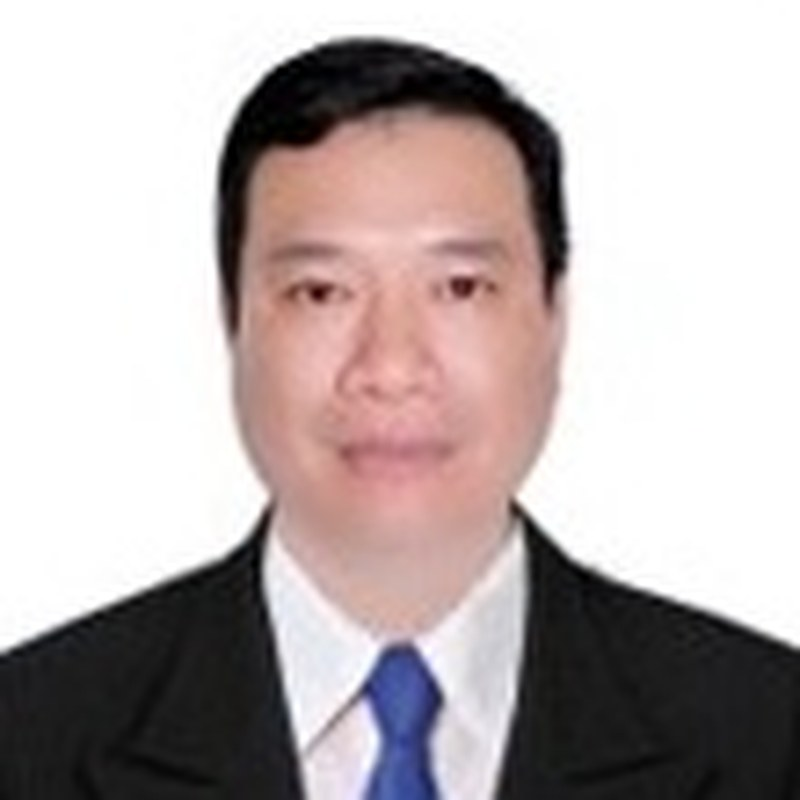
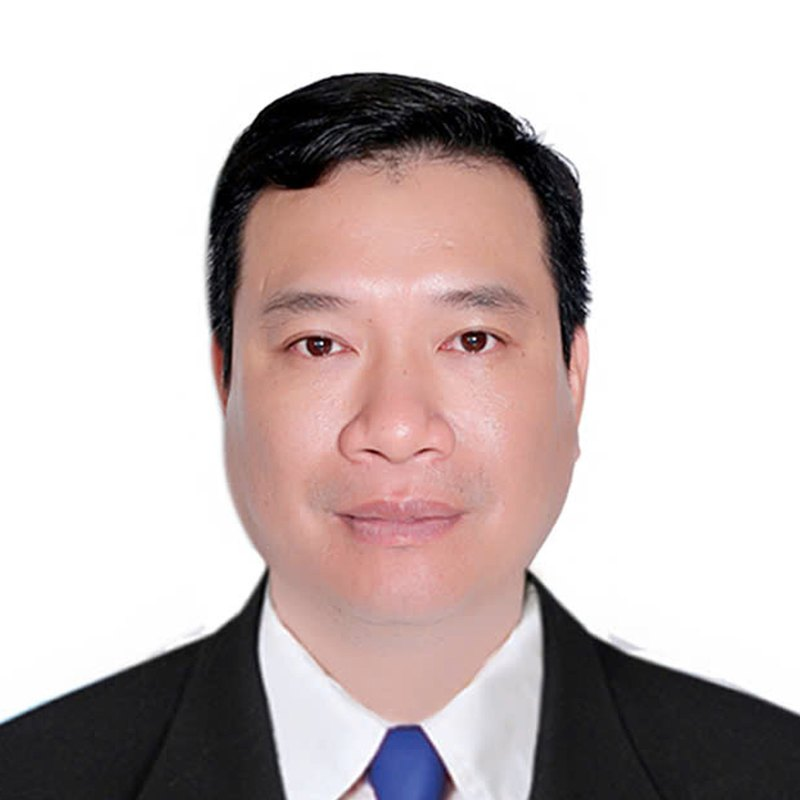
Update speakers và sponsors

Changed region(s): [[0.0, 0.0312, 1.0, 1.0]]

diff --git a/src/data/speakers.ts b/src/data/speakers.ts
@@ -26,15 +26,14 @@ export interface Speaker {
 export const HIDDEN_GROUPS: number[] = []
 
 /** Show the yellow "Tự động dịch / Auto-translated" tag in the speaker modal. */
-export const SHOW_AUTO_TAG = true
+export const SHOW_AUTO_TAG = false
 
 export const SP_GROUPS: Record<Locale, string[]> = { vi: ['Phiên toàn thể', 'Phiên chuyên đề', 'Chuyên đề 1 – Đổi mới sáng tạo', 'Chuyên đề 2 – Tài chính xanh'], en: ['Plenary session', 'Thematic session', 'Theme 1 – Innovation', 'Theme 2 – Green finance'] };
 export const SPEAKERS: Speaker[] = [
-  {"id":"ho-quoc-dung","g":0,"img":false,"org":"Chính phủ","draft":[],"vi":{"name":"Ông Hồ Quốc Dũng","role":"Phó Thủ tướng Chính phủ","bio":[]},"en":{"name":"Mr. Ho Quoc Dung","role":"Deputy Prime Minister","bio":[]}},
-  {"id":"ho-sy-hung","g":0,"img":false,"org":"VCCI","draft":[],"vi":{"name":"Ông Hồ Sỹ Hùng","role":"Chủ tịch Liên đoàn Thương mại và Công nghiệp Việt Nam (VCCI)","bio":[]},"en":{"name":"Mr. Ho Sy Hung","role":"Chairman of the Vietnam Chamber of Commerce and Industry (VCCI)","bio":[]}},
-  {"id":"nguyen-xuan-thang","g":0,"img":false,"org":"Hội đồng Lý luận Trung ương","draft":[],"vi":{"name":"GS. TS. Nguyễn Xuân Thắng","role":"Ủy viên Bộ Chính trị khóa XIII, Chủ tịch Hội đồng Lý luận Trung ương","bio":[]},"en":{"name":"Prof. Dr. Nguyen Xuan Thang","role":"Member of the 13th Politburo, Chairman of the Central Theoretical Council","bio":[]}},
+  {"id":"ho-sy-hung","g":0,"img":true,"org":"VCCI","draft":[],"vi":{"name":"Ông Hồ Sỹ Hùng","role":"Chủ tịch Liên đoàn Thương mại và Công nghiệp Việt Nam (VCCI)","bio":[]},"en":{"name":"Mr. Ho Sy Hung","role":"Chairman of the Vietnam Chamber of Commerce and Industry (VCCI)","bio":[]}},
+  {"id":"nguyen-xuan-thang","g":0,"img":true,"org":"Hội đồng Lý luận Trung ương","draft":[],"vi":{"name":"GS. TS. Nguyễn Xuân Thắng","role":"Ủy viên Bộ Chính trị khóa XIII, Chủ tịch Hội đồng Lý luận Trung ương","bio":[]},"en":{"name":"Prof. Dr. Nguyen Xuan Thang","role":"Member of the 13th Politburo, Chairman of the Central Theoretical Council","bio":[]}},
   {"id":"bui-minh-giap","g":0,"img":true,"org":"ADB","draft":[],"vi":{"name":"Ông Bùi Minh Giáp","role":"Chuyên gia Kinh tế trưởng, Ngân hàng Phát triển Châu Á (ADB)","bio":["Ông Bùi Minh Giáp là Chuyên gia Kinh tế trưởng của Ngân hàng Phát triển Châu Á (ADB) tại Việt Nam. Ông phụ trách công tác theo dõi, phân tích và dự báo kinh tế vĩ mô của Việt Nam, đồng thời tham gia tư vấn chính sách trong các lĩnh vực quản lý khu vực công, phát triển khu vực tài chính, hoạch định chiến lược, xác định ưu tiên và xây dựng lộ trình đầu tư.","Với 28 năm kinh nghiệm làm việc tại các định chế tài chính quốc tế, ông có chuyên môn sâu về phát triển kinh tế bền vững và bao trùm, ổn định kinh tế vĩ mô, chính sách công, xúc tiến thương mại, phát triển chuỗi giá trị, an ninh năng lượng và lương thực."]},"en":{"name":"Mr. Bui Minh Giap","role":"Principal Economist, Asian Development Bank - Vietnam","bio":["Mr. Bui Minh Giap is Principal Country Economist at the Asian Development Bank (ADB) in Viet Nam. He is responsible for monitoring, analyzing, and forecasting Viet Nam’s macroeconomic developments, and provides policy advice on public sector management, financial sector development, strategic planning, investment prioritization, and investment sequencing.","He has 28 years of experience with international financial institutions and brings extensive expertise in sustainable and inclusive economic development, macroeconomic stability, public policy, trade promotion, value chain development, energy and food security."]}},
-  {"id":"bui-van-khang","g":0,"img":false,"org":"Quảng Ninh","draft":[],"vi":{"name":"Ông Bùi Văn Khắng","role":"Phó Bí thư Thành ủy, Chủ tịch UBND Thành phố Quảng Ninh","bio":[]},"en":{"name":"Mr. Bui Van Khang","role":"Deputy Secretary of Quang Ninh Party Committee, Chairman of Quang Ninh People’s Committee","bio":[]}},
+  {"id":"bui-van-khang","g":0,"img":true,"org":"Quảng Ninh","draft":[],"vi":{"name":"Ông Bùi Văn Khắng","role":"Phó Bí thư Thành ủy, Chủ tịch UBND Thành phố Quảng Ninh","bio":[]},"en":{"name":"Mr. Bui Van Khang","role":"Deputy Secretary of Quang Ninh Party Committee, Chairman of Quang Ninh People’s Committee","bio":[]}},
   {"id":"binu-jacob","g":0,"img":true,"org":"Nestlé Việt Nam","draft":[],"vi":{"name":"Ông Binu Jacob","role":"Tổng giám đốc Nestlé Việt Nam, Đồng Chủ tịch VBCSD","bio":[]},"en":{"name":"Mr. Binu Jacob","role":"CEO of Nestlé Vietnam, VBCSD Co-Chair","bio":[]}},
   {"id":"jc-heineken","g":0,"img":true,"org":"HEINEKEN Việt Nam","draft":[],"vi":{"name":"Ông James Crampton","role":"Giám đốc Ngoại vụ cấp cao, Công ty HEINEKEN Việt Nam, Phó Chủ tịch VBCSD","bio":[]},"en":{"name":"Mr. James Crampton","role":"Corporate Affairs Director of HEINEKEN Vietnam, VBCSD Vice-Chair","bio":[]}},
   {"id":"le-hoang-minh","g":0,"img":true,"org":"Vinamilk","draft":[],"vi":{"name":"Ông Lê Hoàng Minh","role":"Giám đốc điều hành Sản xuất, Công ty CP Sữa Việt Nam (Vinamilk)","bio":[]},"en":{"name":"Mr. Le Hoang Minh","role":"Executive Director – Production, Vinamilk","bio":[]}},
@@ -45,7 +44,7 @@ export const SPEAKERS: Speaker[] = [
   {"id":"hang-nguyen","g":0,"img":true,"org":"A.P. Moller – Maersk","draft":[],"vi":{"name":"Bà Nguyễn Thị Thu Hằng","role":"Giám đốc đối ngoại Khu vực Mekong, A.P. Moller – Maersk","bio":["Bà Hằng Nguyễn hiện là Giám đốc đối ngoại Khu vực Mekong tại A.P. Moller – Maersk. Bà có hơn 15 năm kinh nghiệm làm việc trong cả khu vực công và khu vực tư nhân tại Việt Nam, với chuyên môn sâu về quan hệ chính phủ, chính sách công, thuận lợi hóa thương mại, logistics, quản trị rủi ro pháp lý, phát triển bền vững và quan hệ với các bên liên quan.","Trước khi gia nhập Maersk, bà Hằng Phó Chủ tịch phụ trách Đối ngoại, Truyền thông và Phát triển bền vững tại Coca-Cola Việt Nam. Trước đó, bà là Giám đốc đối ngoại tại Tập đoàn Masan. Trên các cương vị này, bà đã dẫn dắt nhiều hoạt động trao đổi chính sách, thúc đẩy các ưu tiên về môi trường, xã hội và quản trị, đồng thời với các cơ quan trung ương và địa phương, các đại sứ quán, hiệp hội doanh nghiệp và nhiều bên liên quan chủ chốt.","Trước đó, bà Hằng có gần 12 năm công tác tại Cục Xuất nhập khẩu, Bộ Công Thương, lần lượt đảm nhiệm các vị trí Trưởng phòng Thuận lợi hóa thương mại và Trưởng phòng Thương mại quốc tế. Với vai trò tư vấn xây dựng và hoạch định chính sách, bà đã trực tiếp tham gia xây dựng nhiều khuôn khổ pháp luật và chính sách quan trọng trong lĩnh vực ngoại thương, trong đó có Luật Quản lý ngoại thương và các văn bản hướng dẫn thi hành.","Bà cũng từng tham gia vào các Đoàn đàm phán Chính phủ Việt Nam về thương mại hàng hóa và mở cửa thị trường trong khuôn khổ các hiệp định thương mại tự do quan trọng, bao gồm Hiệp định Đối tác Toàn diện và Tiến bộ xuyên Thái Bình Dương, Hiệp định Thương mại tự do Việt Nam - Liên minh châu Âu và Hiệp định Thương mại tự do Việt Nam - Israel. Kinh nghiệm của bà còn bao quát các vấn đề liên quan đến ASEAN, Tổ chức Thương mại Thế giới và Cơ chế Một cửa quốc gia, cũng như các sáng kiến chính sách nhằm xây dựng môi trường thương mại, vận tải, logistics và chuỗi cung ứng cạnh tranh, bền vững và hiệu quả hơn tại Việt Nam.","Bà Hằng có bằng Thạc sĩ Tài chính và Ngân quỹ của Đại học Rennes và bằng Cử nhân Kinh tế của Trường Đại học Ngoại thương. Bà đã hoàn thành nhiều chương trình đào tạo chuyên sâu về quản lý công, thuận lợi hóa thương mại, Cơ chế Một cửa ASEAN, kỹ năng đàm phán thương mại, logistics và quản trị chuỗi cung ứng tại Nhật Bản, Singapore, Thái Lan và Australia. Đồng thời, bà đã tham gia xây dựng nhiều báo cáo, ấn phẩm và sáng kiến chính sách tiêu biểu, bao gồm Diễn đàn Logistics Việt Nam, Báo cáo Xuất nhập khẩu Việt Nam và Báo cáo Logistics Việt Nam."]},"en":{"name":"Ms. Nguyen Thi Thu Hang","role":"Regional Head of Government and Public Affairs, Mekong Area, A.P. Moller – Maersk","bio":["Hang Nguyen is Regional Head of Government and Public Affairs for the Mekong Area at A.P. Moller - Maersk. She brings more than 15 years of experience across Vietnam's public and private sectors, with extensive expertise in government relations, public policy, trade facilitation, logistics, regulatory risk management, sustainability and stakeholder engagement.","Before joining Maersk, Hang held senior leadership role as Vice President in public affairs, communications and sustainability at Coca-Cola Vietnam, and previously served as Government Affairs Manager at Masan Group. In these positions, she led policy advocacy, advanced environmental, social and governance priorities, and built trusted relationships with central and provincial authorities, embassies, business associations and other key stakeholders.","Hang began her career at Vietnam's Ministry of Industry and Trade, where she spent nearly 12 years in the Import-Export Department. She served as Head of the Trade Facilitation Division, Head of the International Trade Division and Deputy Head of the International Trade Division. As a senior policy adviser and policymaker, she contributed to major legal and regulatory frameworks governing foreign trade, including the Law on Foreign Trade Management and related implementing instruments.","She was also a member of Vietnam's government negotiation delegation on trade in goods and market access for major free trade agreements, including the CPTPP, the EU-Vietnam Free Trade Agreement and the Vietnam-Israel Free Trade Agreement. Her work has additionally covered ASEAN, WTO and National Single Window matters, alongside policy initiatives supporting a more competitive, sustainable and efficient trade, transport, logistics and supply chain environment in Vietnam.","Hang holds a Master of Finance and Treasury from the University of Rennes and a Bachelor of Economics from Foreign Trade University in Vietnam. She has completed specialist training in public management, trade facilitation, the ASEAN Single Window, trade negotiations, logistics and supply chain management in Japan, Singapore, Thailand and Australia. She has also contributed to publications and flagship policy initiatives, including Vietnam's Logistics Forum, the Vietnam Import-Export Report and the Vietnam Logistics Report. Her career reflects commitment to practical reform, constructive partnership and long-term value creation for Vietnam's economy."]}},
   {"id":"le-hung-cuong","g":0,"img":true,"org":"FPT","draft":[],"vi":{"name":"TS. Lê Hùng Cường","role":"Tổng Giám đốc FPT Digital, Tập đoàn FPT","bio":["Tiến sĩ Lê Hùng Cường là chuyên gia hàng đầu trong lĩnh vực trí tuệ nhân tạo (AI) và chuyển đổi số, với hơn 20 năm kinh nghiệm trong ngành công nghệ thông tin và tư vấn. Ông nhận bằng Tiến sĩ Khoa học Máy tính tại Pháp, và hiện giữ vị trí Tổng giám đốc tại FPT Digital – đơn vị tiên phong trong tư vấn chuyển đổi số, chuyển đổi trí tuệ nhân tạo thuộc Tập đoàn FPT.","TS. Cường đã dẫn dắt nhiều dự án tư vấn chiến lược chuyển đổi số và AI cho các doanh nghiệp thuộc nhóm VNR500 cũng như các tập đoàn đa quốc gia, tập trung vào việc kiến tạo lộ trình AI toàn diện, thiết kế kiến trúc dữ liệu và triển khai giải pháp AI vào các chuỗi giá trị cốt lõi. Các lĩnh vực tiêu biểu bao gồm sản xuất thông minh, chuỗi cung ứng tự động hóa, phân tích dữ liệu nâng cao trong tài chính, ngân hàng và bán lẻ.","Tại Tập đoàn FPT, ông là người kiến tạo và dẫn dắt chương trình đào tạo và nâng cao năng lực AI cho toàn bộ hệ sinh thái 10 công ty thành viên của FPT, hướng đến xây dựng nguồn lực nội tại mạnh về AI và dữ liệu, sẵn sàng triển khai vào thực tiễn.","TS. Cường không chỉ là nhà lãnh đạo chiến lược mà còn là kiến trúc sư tư duy AI-first, luôn theo đuổi giá trị bền vững, hiệu quả và đổi mới sáng tạo trong từng sáng kiến chuyển đổi số.","TS. Cường được vinh danh CEO of the Year - Artificial Intelligence tại Globee® Awards for Artificial Intelligence và Nhà Lãnh đạo AI của năm tại Asia-Pacific Stevie® Awards, ghi nhận những đóng góp nổi bật trong việc thúc đẩy tư duy AI-first và ứng dụng AI vào thực tiễn doanh nghiệp."]},"en":{"name":"Dr. Le Hung Cuong","role":"Chief Executive Officer, FPT Digital, FPT Corporation","bio":["Dr. Le Hung Cuong is a leading expert in artificial intelligence (AI) and digital transformation, with over 20 years of experience in the information technology and consulting sectors. He holds a Ph.D. in Computer Science from France and currently serves as Chief Executive Officer at FPT Digital – a pioneering entity specializing in digital transformation and AI transformation consulting under FPT Corporation.","Dr. Cuong has led numerous strategic digital transformation and AI consulting projects for top VNR500 enterprises as well as multinational corporations, focusing on building comprehensive AI roadmaps, designing enterprise data architectures, and deploying AI solutions across core value chains. Key sectors include smart manufacturing, automated supply chains, and advanced data analytics in finance, banking, and retail.","Within FPT Corporation, he is the architect and leader of the AI capability development program across the entire FPT ecosystem, covering 10 member companies. His mission is to build a strong internal AI and data workforce, fully equipped to drive practical AI adoption.","Dr. Cuong is not only a strategic leader but also an architect of AI-first thinking, consistently pursuing sustainable value creation, operational excellence, and innovation in every digital transformation initiative.","Dr. Cuong was honored as CEO of the Year – Artificial Intelligence at the Globee® Awards for Artificial Intelligence and AI Leader of the Year at the Asia-Pacific Stevie® Awards, recognizing his outstanding contributions to advancing an AI-first mindset and applying AI in business practice."]}},
   {"id":"beate-dippmar","g":0,"img":true,"org":"GIZ Việt Nam","draft":[],"vi":{"name":"Bà Beate Dippmar","role":"Giám đốc khối các chương trình về Giáo dục nghề nghiệp, Thị trường lao động và Chuyển dịch lao động – Quản lý Chương trình Đổi mới Giáo dục nghề nghiệp tại Việt Nam, GIZ Việt Nam","bio":["Beate Dippmar là một chuyên gia giàu kinh nghiệm trong lĩnh vực phát triển quốc tế và giáo dục nghề nghiệp và đào tạo kỹ thuật (TVET). Hiện nay, bà đảm nhiệm vị trí Giám đốc khối các chương trình về Giáo dục nghề nghiệp, Thị trường lao động và Chuyển dịch Lao động tại Tổ chức Hợp tác Quốc tế Đức (GIZ) tại Việt Nam.","Với kinh nghiệm làm việc lâu năm tại Việt Nam, Rwanda và Mông Cổ, Beate luôn chú trọng nâng cao chất lượng và tính phù hợp của giáo dục nghề nghiệp, đồng thời thúc đẩy các quan hệ hợp tác với khu vực tư nhân. Công việc của bà tập trung vào việc gắn kết phát triển kỹ năng với nhu cầu của thị trường lao động, đồng thời trang bị cho lực lượng lao động các năng lực xanh, số và hướng tới tương lai, cần thiết để thích ứng với thế giới việc làm đang thay đổi nhanh chóng.","Các dự án mà bà triển khai cùng đội ngũ của mình thúc đẩy hợp tác công – tư xuyên suốt chuỗi kết quả của giáo dục nghề nghiệp – từ đối thoại về kỹ năng ngành, đến đồng xây dựng tiêu chuẩn nghề và chương trình đào tạo theo mô-đun dựa trên năng lực, phù hợp với các tiêu chuẩn quốc tế; từ các phương thức đào tạo phối hợp, kết hợp đào tạo tại doanh nghiệp, đến cuối cùng là cùng đánh giá và bảo đảm chất lượng. Trong tất cả các lĩnh vực này, việc tích hợp một cách toàn diện công nghệ số và năng lực số vào giáo dục nghề nghiệp được đặc biệt thúc đẩy.","Beate có bằng Thạc sĩ Sinh thái học địa lý tại Đại học Kỹ thuật Bergakademie Freiberg và bằng Thạc sĩ Sư phạm Giáo dục nghề nghiệp (Vocational Pedagogy), chuyên ngành Hợp tác quốc tế trong Giáo dục nghề nghiệp (GDNN) tại Đại học Kỹ thuật Berlin."]},"en":{"name":"Ms. Beate Dippmar","role":"Cluster Coordinator TVET, Labour Market and Labour Mobility; Programme Manager ‘EU-Viet Nam TVET Programme’ – GIZ Viet Nam","bio":["Beate Dippmar is an experienced international development professional and expert in Technical and Vocational Education and Training (TVET). Currently, she holds the position of Cluster Coordinator for TVET, Labour Market and Labour Mobility at the Deutsche Gesellschaft für Internationale Zusammenarbeit (GIZ) GmbH in Viet Nam.","With a background that includes long-term working experiences in Viet Nam, Rwanda, and Mongolia, Beate is committed to enhancing the quality and relevance of TVET while fostering collaborative partnerships with the private sector. Her work focuses on aligning skills development with labour market needs and equipping the workforce with green, digital and future-oriented competencies essential for navigating a rapidly changing world of work.","The projects she is working on with her teams advance public–private cooperation throughout the TVET results chain—from sector skills dialogue, to the co-design of occupational standards and competency-based modular curricula aligned with international standards, to cooperative training approaches integrating in-company training, and finally to joint assessment and quality assurance. Across these areas, the inclusive integration of digital technologies and digital competencies into TVET are promoted.","Beate holds a Master’s degree in Geo-Ecology from the Technische Universität Bergakademie Freiberg and a Master’s degree in Vocational Pedagogy, with a specialization in International Cooperation in Technical and Vocational Education and Training (TVET), from the Technische Universität Berlin."]}},
-  {"id":"nguyen-quang-vinh","g":0,"img":false,"org":"VCCI","draft":[],"vi":{"name":"Ông Nguyễn Quang Vinh","role":"Phó Chủ tịch VCCI, Chủ tịch VBCSD","bio":[]},"en":{"name":"Mr. Nguyen Quang Vinh","role":"VCCI Vice Chairman, VBCSD Chairman","bio":[]}},
+  {"id":"nguyen-quang-vinh","g":0,"img":true,"org":"VCCI","draft":[],"vi":{"name":"Ông Nguyễn Quang Vinh","role":"Phó Chủ tịch VCCI, Chủ tịch VBCSD","bio":[]},"en":{"name":"Mr. Nguyen Quang Vinh","role":"VCCI Vice Chairman, VBCSD Chairman","bio":[]}},
   {"id":"ha-thu-thanh","g":1,"img":true,"org":"VIOD","draft":[],"vi":{"name":"Bà Hà Thu Thanh","role":"Chủ tịch Viện Thành viên Hội đồng Quản trị Việt Nam (VIOD), Ủy viên Ban chấp hành VCCI, Thành viên Ban điều hành Hội đồng Doanh nghiệp vì sự phát triển bền vững Việt Nam (VBCSD-VCCI)","bio":[]},"en":{"name":"Ms. Ha Thu Thanh","role":"Vietnam Institute of Director Chairperson, VCCI Executive Committee Member, Executive Board Member of Vietnam Business Council for Sustainable Development (VBCSD-VCCI)","bio":[]}},
   {"id":"tran-ngoc-nam","g":2,"img":true,"org":"Mondelez Kinh Đô","draft":[],"vi":{"name":"Ông Trần Ngọc Nam","role":"Giám đốc Nhà máy, Công ty Mondelez Kinh Đô (Nhà máy Hưng Yên)","bio":["Trần Ngọc Nam hiện là Giám đốc Nhà máy Công ty Mondelez Kinh Đô (Nhà máy tại Hưng Yên-NKD) kể từ tháng 8 năm 2026, Ông chịu trách nhiệm dẫn dắt các hoạt động nhằm đạt hiệu suất xuất sắc, đảm bảo an toàn, chất lượng và tạo ra giá trị cho nhà máy.","Ông Nam có hơn 12 năm kinh nghiệm lãnh đạo trong ngành FMCG, bao gồm vận hành sản xuất, chuyển đổi chuỗi cung ứng và nâng cao năng suất tại khu vực Đông Nam Á và khu vực AMEA. Trước khi đảm nhận vai trò hiện tại, ông từng giữ chức Trưởng bộ phận Chuỗi Cung ứng khu vực Đông Nam Á tại Mondelez International, giám sát 10 nhà máy sản xuất tại 6 quốc gia, nơi ông thiết kế và triển khai hệ thống vận hành tích hợp cùng mô hình quản trị khu vực nhằm đảm bảo việc thực thi nhất quán.","Trước khi gia nhập Mondelez, ông Nam đã có một thập kỷ làm việc tại Procter & Gamble Việt Nam, đảm nhiệm các vị trí lãnh đạo chủ chốt như Giám đốc Kỹ thuật Nhà máy — quản lý ngân sách đầu tư hằng năm hơn 30 triệu USD — và Giám đốc Vận hành, nơi ông lãnh đạo các đội ngũ đa chức năng chuỗi giá trị sản xuất."]},"en":{"name":"Mr. Tran Ngoc Nam","role":"Plant Director, Mondelez Kinh Do (Hung Yen Plant)","bio":["Tran Ngoc Nam is the Plant Director of Mondelez Kinh Do (Hung Yen Plant) in Vietnam since August 2026, responsible for leading operational excellence, safety, quality, and value delivery across the NKD manufacturing site.","Nam brings over 12 years of FMCG leadership experience spanning manufacturing operations, supply chain transformation, and productivity across Southeast Asia and the AMEA region. Prior to his current role, he served as SEA Supply Chain Excellence Lead at Mondelez International, overseeing 10 manufacturing plants across 6 countries, where he designed and deployed an integrated operating system and regional governance model to drive consistent execution.","Before Mondelez, Nam spent a decade at Procter & Gamble in Vietnam, holding key leadership roles including Plant Engineering Director — managing over USD 30M in annual investment — and Operation Director, leading multi-function teams across manufacturing value streams."]}},
   {"id":"huynh-thi-xuan-lien","g":2,"img":true,"org":"PNJ","draft":[],"vi":{"name":"Bà Huỳnh Thị Xuân Liên","role":"Giám đốc Cấp cao Đối ngoại & Phát triển Bền vững, PNJ","bio":["Huỳnh Thị Xuân Liên là nhà lãnh đạo doanh nghiệp với 27 năm kinh nghiệm trong những lĩnh vực xây dựng thương hiệu, tăng trưởng kinh doanh và phát triển đội ngũ. Hiện bà là Chủ tịch Công ty CAF - CAO Fine Fewelry, Giám đốc Cấp cao Đối ngoại & Phát triển Bền vững tại PNJ, Thành viên Ủy ban ESG của PNJ và từng là Thành viên Hội đồng Quản trị PNJ.","Trước đó, bà có 12 năm đảm nhiệm các vị trí lãnh đạo cấp cao tại PepsiCo và Suntory PepsiCo Việt Nam, trong đó có Tổng Giám Đốc Nhượng quyền Pepsico Việt nam, Phó Tổng Giám đốc Cấp cao phụ trách Marketing, đóng vai trò quan trọng trong việc xây dựng và phát triển nhiều thương hiệu dẫn đầu. Bà cũng từng làm việc tại LG, Dutch Lady và Unilever, với kinh nghiệm sâu rộng trong ngành FMCG.","Bên cạnh hoạt động doanh nghiệp, bà hiện là Phó Chủ tịch Hội Nữ Doanh Nhân TP. HCM HAWEE, Phó Chủ tịch Hiệp hội Marketing Việt Nam (VMA) và Phó Chủ tịch CSMO Việt Nam.","Triết lý lãnh đạo của bà được thể hiện qua hai niềm tin: “Do things the right way” – Làm điều đúng theo cách đúng và “Win through great collaboration” – Thành công thông qua sức mạnh của sự hợp tác. Xuyên suốt hành trình của mình, bà hướng đến việc xây dựng doanh nghiệp, thương hiệu và con người có khả năng tạo ra những tác động tích cực và bền vững."]},"en":{"name":"Ms. Huynh Thi Xuan Lien","role":"Senior Director of External Affairs & Sustainability, PNJ","bio":["Huynh Thi Xuan Lien is a seasoned business leader with 27 years of experience in brand building, business growth, and talent development. She currently serves as Chairwoman of CAF Company – CAO Fine Jewelry, Senior Director of External Affairs & Sustainability at PNJ, and a Member of PNJ’s ESG Committee. She previously served as a Member of PNJ’s Board of Directors.","Prior to PNJ, Lien spent 12 years in senior leadership roles at PepsiCo and Suntory PepsiCo Vietnam, including General Manager of PepsiCo Vietnam Franchise and Senior Vice President of Marketing. During her tenure, she played an instrumental role in building and growing some of the company’s leading brands. Earlier in her career, she held various roles at LG, Dutch Lady, and Unilever, building extensive experience across the FMCG industry.","Beyond her corporate roles, Lien currently serves as Vice President of HAWEE – Ho Chi Minh City Women Entrepreneurs Association, Vice President of the Vietnam Marketing Association (VMA), and Vice President of CSMO Vietnam.","Her leadership philosophy is grounded in two core beliefs: “Do things the right way” and “Win through great collaboration.” Throughout her career, she has remained committed to building businesses, brands, and people that create positive and sustainable impact."]}},

diff --git a/src/data/partners.ts b/src/data/partners.ts
@@ -1,9 +1,11 @@
 // Sponsors by tier — copied verbatim from the design reference.
 // Logo file: /images/partners/<id>.png. `hf` = logo height inside its tile
 // (per-logo optical sizing, since the artwork has different padding).
+// `href` = sponsor website, from the member links on https://vbcsd.vn/.
 
 export interface PartnerLogo {
   id: string
+  href: string
   vi: string
   en: string
   hf: string
@@ -15,4 +17,4 @@ export interface PartnerTier {
   logos: PartnerLogo[]
 }
 
-export const PARTNERS: PartnerTier[] = [{"vi":"Nhà tài trợ Chiến lược","en":"Strategic Sponsors","logos":[{"id":"coca-cola","vi":"Công ty TNHH Nước giải khát Coca-Cola Việt Nam","en":"Coca-Cola Beverages Vietnam Ltd.","hf":"52%"},{"id":"heineken","vi":"Công ty TNHH Nhà Máy Bia Heineken Việt Nam","en":"HEINEKEN Vietnam Brewery Co., Ltd.","hf":"52%"},{"id":"nestle","vi":"Công ty TNHH Nestlé Việt Nam","en":"Nestlé Vietnam Ltd.","hf":"89%"},{"id":"sabeco","vi":"Tổng công ty CP Bia - Rượu - Nước giải khát Sài Gòn (SABECO)","en":"Saigon Beer - Alcohol - Beverage Corporation (SABECO)","hf":"88%"}]},{"vi":"Nhà tài trợ Bạch Kim","en":"Platinum Sponsors","logos":[{"id":"cp-vietnam","vi":"Công ty Cổ phần Chăn nuôi C.P. Việt Nam","en":"C.P. Vietnam Corporation","hf":"100%"}]},{"vi":"Nhà tài trợ Vàng","en":"Gold Sponsors","logos":[{"id":"aeon","vi":"Công ty TNHH AEON Việt Nam","en":"AEON Vietnam Co., Ltd.","hf":"50%"},{"id":"bat","vi":"Công ty British American Tobacco","en":"British American Tobacco (BAT)","hf":"54%"},{"id":"dksh","vi":"Công ty DKSH Việt Nam","en":"DKSH Vietnam","hf":"60%"},{"id":"mondelez","vi":"Công ty Mondelez Kinh Đô Việt Nam","en":"Mondelez Kinh Do Vietnam","hf":"57%"},{"id":"sasco","vi":"Công ty Cổ phần Dịch vụ hàng không Sân bay Tân Sơn Nhất (SASCO)","en":"Southern Airports Services JSC (SASCO)","hf":"53%"},{"id":"vinamilk","vi":"Công ty CP Sữa Việt Nam (Vinamilk)","en":"Vietnam Dairy Products JSC (Vinamilk)","hf":"52%"}]},{"vi":"Nhà tài trợ Đồng","en":"Bronze Sponsors","logos":[{"id":"bidv","vi":"Ngân hàng TMCP Đầu tư và Phát triển Việt Nam (BIDV)","en":"Joint Stock Commercial Bank for Investment and Development of Vietnam (BIDV)","hf":"60%"},{"id":"pnj","vi":"Công ty CP Vàng bạc Đá quý Phú Nhuận (PNJ)","en":"Phu Nhuan Jewelry JSC (PNJ)","hf":"100%"},{"id":"scg","vi":"Công ty TNHH SCG Việt Nam","en":"SCG Vietnam Co., Ltd.","hf":"54%"},{"id":"home-credit","vi":"Công ty Tài chính TNHH MTV Home Credit Việt Nam","en":"Home Credit Vietnam Finance Company Ltd.","hf":"60%"},{"id":"carlsberg","vi":"Công ty Bia Carlsberg Việt Nam","en":"Carlsberg Vietnam","hf":"63%"}]}];
+export const PARTNERS: PartnerTier[] = [{"vi":"Nhà tài trợ Chiến lược","en":"Strategic Sponsors","logos":[{"id":"nestle","href":"https://www.nestle.com.vn/","vi":"Công ty TNHH Nestlé Việt Nam","en":"Nestlé Vietnam Ltd.","hf":"89%"},{"id":"coca-cola","href":"https://www.coca-cola.com/vn/vi","vi":"Công ty TNHH Nước giải khát Coca-Cola Việt Nam","en":"Coca-Cola Beverages Vietnam Ltd.","hf":"52%"},{"id":"heineken","href":"https://heineken-vietnam.com.vn/","vi":"Công ty TNHH Nhà Máy Bia Heineken Việt Nam","en":"HEINEKEN Vietnam Brewery Co., Ltd.","hf":"52%"},{"id":"sabeco","href":"https://www.sabeco.com.vn/","vi":"Tổng công ty CP Bia - Rượu - Nước giải khát Sài Gòn (SABECO)","en":"Saigon Beer - Alcohol - Beverage Corporation (SABECO)","hf":"88%"}]},{"vi":"Nhà tài trợ Bạch Kim","en":"Platinum Sponsors","logos":[{"id":"cp-vietnam","href":"https://www.cp.com.vn/","vi":"Công ty Cổ phần Chăn nuôi C.P. Việt Nam","en":"C.P. Vietnam Corporation","hf":"100%"}]},{"vi":"Nhà tài trợ Vàng","en":"Gold Sponsors","logos":[{"id":"aeon","href":"https://www.aeon.com.vn/","vi":"Công ty TNHH AEON Việt Nam","en":"AEON Vietnam Co., Ltd.","hf":"50%"},{"id":"bat","href":"https://www.batvietnam.com/","vi":"Công ty British American Tobacco","en":"British American Tobacco (BAT)","hf":"54%"},{"id":"dksh","href":"https://www.dksh.com/vn-vi/home","vi":"Công ty DKSH Việt Nam","en":"DKSH Vietnam","hf":"60%"},{"id":"mondelez","href":"https://www.mondelezinternational.com/vietnam/","vi":"Công ty Mondelez Kinh Đô Việt Nam","en":"Mondelez Kinh Do Vietnam","hf":"57%"},{"id":"sasco","href":"https://www.sasco.com.vn/","vi":"Công ty Cổ phần Dịch vụ hàng không Sân bay Tân Sơn Nhất (SASCO)","en":"Southern Airports Services JSC (SASCO)","hf":"53%"},{"id":"vinamilk","href":"https://www.vinamilk.com.vn/","vi":"Công ty CP Sữa Việt Nam (Vinamilk)","en":"Vietnam Dairy Products JSC (Vinamilk)","hf":"52%"}]},{"vi":"Nhà tài trợ Đồng","en":"Bronze Sponsors","logos":[{"id":"bidv","href":"https://bidv.com.vn/","vi":"Ngân hàng TMCP Đầu tư và Phát triển Việt Nam (BIDV)","en":"Joint Stock Commercial Bank for Investment and Development of Vietnam (BIDV)","hf":"60%"},{"id":"pnj","href":"https://www.pnj.com.vn/","vi":"Công ty CP Vàng bạc Đá quý Phú Nhuận (PNJ)","en":"Phu Nhuan Jewelry JSC (PNJ)","hf":"100%"},{"id":"scg","href":"https://www.scg.com/","vi":"Công ty TNHH SCG Việt Nam","en":"SCG Vietnam Co., Ltd.","hf":"54%"},{"id":"home-credit","href":"https://www.homecredit.vn/","vi":"Công ty Tài chính TNHH MTV Home Credit Việt Nam","en":"Home Credit Vietnam Finance Company Ltd.","hf":"60%"},{"id":"carlsberg","href":"https://www.carlsbergvietnam.vn/vi/","vi":"Công ty Bia Carlsberg Việt Nam","en":"Carlsberg Vietnam","hf":"63%"}]}];

diff --git a/src/components/Partners/Partners.tsx b/src/components/Partners/Partners.tsx
@@ -8,12 +8,12 @@ import styles from './Partners.module.css'
 /** Per-tier layout, indexed like PARTNERS: Strategic, Platinum, Gold, Bronze. */
 const TIER = {
   cols: {
-    wide: ['repeat(4,minmax(0,1fr))', 'minmax(0,calc((100% - 42px)/4))', 'repeat(6,minmax(0,1fr))', 'repeat(5,minmax(0,1fr))'],
-    // Platinum shares Strategic's 2-column grid so its single logo lines up with the column above.
-    narrow: ['repeat(2,minmax(0,1fr))', 'repeat(2,minmax(0,1fr))', 'repeat(3,minmax(0,1fr))', 'repeat(3,minmax(0,1fr))'],
+    // Platinum and Bronze use Gold's grid, height and padding so their tiles are the same size as a Gold tile.
+    wide: ['repeat(4,minmax(0,1fr))', 'repeat(6,minmax(0,1fr))', 'repeat(6,minmax(0,1fr))', 'repeat(6,minmax(0,1fr))'],
+    narrow: ['repeat(2,minmax(0,1fr))', 'repeat(3,minmax(0,1fr))', 'repeat(3,minmax(0,1fr))', 'repeat(3,minmax(0,1fr))'],
   },
-  height: { wide: ['120px', '100px', '80px', '64px'], narrow: ['104px', '96px', '72px', '60px'] },
-  pad: { wide: ['16px 22px', '14px 22px', '12px 16px', '10px 14px'], narrow: ['14px', '14px', '10px', '8px'] },
+  height: { wide: ['120px', '80px', '80px', '80px'], narrow: ['104px', '72px', '72px', '72px'] },
+  pad: { wide: ['16px 22px', '12px 16px', '12px 16px', '12px 16px'], narrow: ['14px', '10px', '10px', '10px'] },
   /** Tier dot: aqua (strategic), platinum, gold, bronze */
   dot: [
     'linear-gradient(135deg,#5FE0F0 0%,#1FA2F2 45%,#0A4FE6 100%)',
@@ -47,9 +47,16 @@ export default function Partners() {
                 style={{ gridTemplateColumns: TIER.cols[size][i], gap: narrow ? '10px' : '14px' }}
               >
                 {tier.logos.map((lg) => (
-                  <div key={lg.id} className={styles.logo} style={{ height: TIER.height[size][i], padding: TIER.pad[size][i] }}>
+                  <a
+                    key={lg.id}
+                    href={lg.href}
+                    target="_blank"
+                    rel="noopener noreferrer"
+                    className={styles.logo}
+                    style={{ height: TIER.height[size][i], padding: TIER.pad[size][i] }}
+                  >
                     <img src={asset(`images/partners/${lg.id}.png`)} alt={lg[locale]} title={lg[locale]} loading="lazy" style={{ height: lg.hf }} />
-                  </div>
+                  </a>
                 ))}
               </div>
             </div>

diff --git a/src/data/archive.ts b/src/data/archive.ts
@@ -15,7 +15,7 @@ export interface Year {
 
 /** Newest first — this is also the left-to-right order of the timeline. */
 export const YEARS: Year[] = [
-  { year: '2025', href: 'https://vcsf.vbcsd.vn/', image: I + 'history/2025-gallery.jpg', vi: 'Phát triển bền vững trong kỷ nguyên mới: Biến khát vọng vươn mình thành hành động', en: 'Sustainable Development in a New Era: Turning Aspirations into Action' },
+  { year: '2025', href: 'https://vcsf.vbcsd.vn/', image: I + 'history/2025.jpg', vi: 'Phát triển bền vững trong kỷ nguyên mới: Biến khát vọng vươn mình thành hành động', en: 'Sustainable Development in a New Era: Turning Aspirations into Action' },
   { year: '2024', href: 'https://vcsf.vbcsd.vn/2024/HTML-VCCI-Landing-2024-Aug', image: I + 'history/2024-1.jpg', vi: 'Net Zero 2050: Bồi đắp niềm tin – Kiến tạo chuyển đổi', en: 'Net Zero 2050: Nurturing Trust – Creating Transformation' },
   { year: '2023', href: 'https://vcsf.vbcsd.vn/2023/', image: I + 'history/2023.jpg', vi: 'Cuộc đua xanh toàn cầu: Từ chiến lược đến thực hành kinh doanh bền vững', en: 'Global Green Race: From Strategy to Execution of Sustainable Business' },
   { year: '2022', href: 'https://vcsf.vbcsd.vn/2022/', image: I + 'history/2022.jpg', vi: 'Chuyển đổi, Tăng tốc, Bứt phá: Doanh nghiệp vững bền – Quốc gia thịnh vượng', en: 'Transform, Speed Up, Break Through: Sustainable Business – Prosperous Nation' },

diff --git a/src/components/About/About.tsx b/src/components/About/About.tsx
@@ -1,7 +1,7 @@
 import { useEffect, useRef, useState, type CSSProperties } from 'react'
 import { asset } from '../../config'
 import { useViewport } from '../../hooks/useViewport'
-import { useLocale, useT } from '../../i18n/context'
+import { useT } from '../../i18n/context'
 import SectionHeader from '../SectionHeader/SectionHeader'
 import styles from './About.module.css'
 
@@ -20,7 +20,6 @@ const ICONS_LEAD = 0.5
 
 export default function About() {
   const t = useT()
-  const { locale } = useLocale()
   const { vw } = useViewport()
   const [lead, ...rest] = t.aboutParagraphs
   const videoRef = useRef<HTMLVideoElement>(null)
@@ -44,15 +43,6 @@ export default function About() {
       <div className={`container ${styles.inner}`}>
         <div className={styles.text}>
           <SectionHeader num="02" kicker="VCSF" title={t.about} split />
-          {locale === 'en' && (
-            <div role="note" className={styles.note}>
-              <span className={styles.noteTag}>NOTE</span>
-              <span>
-                Unofficial translation — the official English version of this content has not been provided yet. Please
-                refer to the Vietnamese version.
-              </span>
-            </div>
-          )}
           <p data-reveal="" data-delay="160" className={styles.lead}>
             {lead}
           </p>

diff --git a/src/components/About/About.module.css b/src/components/About/About.module.css
@@ -18,26 +18,6 @@
   flex: 1 1 440px;
 }
 
-.note {
-  margin-top: 18px;
-  display: flex;
-  align-items: flex-start;
-  gap: 10px;
-  padding: 12px 16px;
-  border-radius: 14px;
-  background: #fff6dc;
-  border: 1px solid var(--gold);
-  font: 500 14px/1.5 var(--font-body);
-  color: #5a4300;
-}
-
-.noteTag {
-  flex: 0 0 auto;
-  font: 800 11px/20px var(--font-body);
-  letter-spacing: .14em;
-  color: #b07a00;
-}
-
 .lead,
 .para {
   font: 400 16px/1.7 var(--font-body);

diff --git a/CLAUDE.md b/CLAUDE.md
@@ -48,19 +48,19 @@ Chạy, build, deploy và bảng "sửa nội dung ở đâu": xem `README.md`.
 - **Hero mobile**: `min-height: max(100lvh, 560px)` để bù thanh công cụ trình duyệt; video dọc được đẩy lên với `VIDEO_Y_PHONE = 60` (%). Giá trị này dùng chung cho cả vị trí video và cung icon trôi (`computeRings`).
 - **Menu**: vẫn là hiệu ứng fade như design nhưng mềm hơn. Menu mount ở trạng thái ẩn và bật `.open` sau 2 frame. Ảnh nền được preload + decode sẵn. Khoá cuộn giữ đến khi menu unmount. Thời gian đóng `CLOSE_MS = 450`.
 - **Diễn giả**: Đã bỏ nhóm Diễn giả khác (01/10). Hiện có 4 nhóm: Phiên toàn thể / Phiên chuyên đề / Chuyên đề 1 / Chuyên đề 2; `HIDDEN_GROUPS = []`. Thẻ trên mobile hiện 2 cột.
-- **Tag "Tự động dịch"** (handoff `design_handoff_vcsf2026_auto_translate_tag`): bỏ hết tag NHÁP/DRAFT. Mảng `draft` giờ nghĩa là "dịch tự động"; tag chỉ hiện trong modal, trên tiêu đề Tiểu sử, tính theo ngôn ngữ đang xem. Tắt bằng `SHOW_AUTO_TAG`.
+- **Tag "Tự động dịch"** (handoff `design_handoff_vcsf2026_auto_translate_tag`): bỏ hết tag NHÁP/DRAFT. Mảng `draft` giờ nghĩa là "dịch tự động"; tag chỉ hiện trong modal, trên tiêu đề Tiểu sử, tính theo ngôn ngữ đang xem. Tắt bằng `SHOW_AUTO_TAG`. **Từ 02/10 đã gỡ hết tag dịch khỏi trang**: `SHOW_AUTO_TAG = false`, và bỏ hộp NOTE "Unofficial translation" ở mục Giới thiệu bản EN. Không tự thêm lại.
 - **Chương trình**: thanh tab **sticky** dưới header, cách header `--stick-gap` (10px desktop, 12px mobile). Khi đang dính có nền đậm. Đổi tab lúc đang dính thì cuộn về đầu thẻ. Chỉ hiện 2 tab đầu của design (tab thứ 3 là dữ liệu 2025, đã bỏ).
 - **Nút lên đầu trang**: hiện khi cuộn xuống (đã qua 60% màn hình đầu), ẩn khi cuộn lên quá `HIDE_AFTER_PHONE = 240`px trên mobile hoặc 12px trên desktop.
 - **Thư viện ảnh**: bấm cả ô ảnh là mở lightbox; nút phóng to luôn hiện trên màn hình cảm ứng.
 - **Video**: còn 2 tab: VCSF 2025 (`1wRxXT3qVP8`, thumbnail lấy từ `i.ytimg.com` maxres, dự phòng hqdefault) và VCSF 2026 (chưa có id, hiện "Đang cập nhật"). Tên video khai báo theo ngôn ngữ trong `archive.ts`.
-- **Đối tác mobile**: hạng Bạch Kim dùng chung lưới 2 cột với hạng Chiến lược để thẳng hàng.
+- **Đối tác**: Nestlé đứng đầu hạng Chiến lược. Ô hạng Bạch Kim (C.P.) và hạng Đồng cùng kích thước với ô hạng Vàng trên cả desktop và mobile (dùng chung lưới, chiều cao, padding của hạng Vàng). Mỗi ô logo là link mở trang nhà tài trợ (`href` trong `partners.ts`, lấy từ vbcsd.vn).
 
 ## Còn chờ khách / việc trước khi chạy thật
 
 - Ảnh thật VCSF 2025 (dải ảnh đang dùng tạm ảnh các năm trước), id video 2026, link PDF riêng cho từng tài liệu (hiện cả 3 trỏ chung về 1 thư mục Drive), link Facebook.
 - Xác nhận file logo nào là Hemera Media, file nào là Hemera Tech.
 - Giờ kết thúc buổi chiều: agenda tổng thể VI ghi 15h45 + bốc thăm 15h45–16h00; EN ghi 16h30; chương trình chi tiết phiên chuyên đề kết thúc 16h20. Mục Giới thiệu/Live đang theo agenda tổng thể (VI 16:00, EN 16:30).
-- 6 diễn giả chưa có ảnh/bio (PTT Hồ Quốc Dũng, Hồ Sỹ Hùng, Nguyễn Xuân Thắng, Bùi Văn Khắng, Nguyễn Quang Vinh, Hà Thu Thanh); 3 người chưa có bio (Binu Jacob, James Crampton, Lê Hoàng Minh); ảnh Hồ Kiên Trung độ phân giải thấp; 2 bài trình bày Phần 1 phiên chuyên đề chưa có tên.
+- Đã xoá PTT Hồ Quốc Dũng khỏi danh sách diễn giả vì không có ảnh (yêu cầu 02/10); còn 27 diễn giả, đều có ảnh. 8 người chưa có bio (Hồ Sỹ Hùng, Nguyễn Xuân Thắng, Bùi Văn Khắng, Binu Jacob, James Crampton, Lê Hoàng Minh, Nguyễn Quang Vinh, Hà Thu Thanh); ảnh Bùi Văn Khắng độ phân giải thấp (gốc 300×400); 2 bài trình bày Phần 1 phiên chuyên đề chưa có tên.
 - Deploy: tạm dùng Vercel (gói Hobby, chỉ để gửi link xem thử). Chạy thật dự kiến dùng Cloudflare Pages, Vercel Pro hoặc hosting trong nước (nếu khách cần hoá đơn VAT). Tên miền chưa chốt.
 
 ## Môi trường
